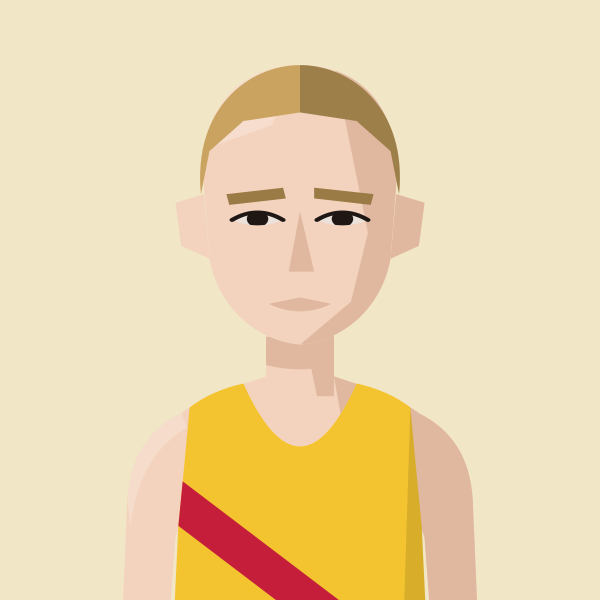
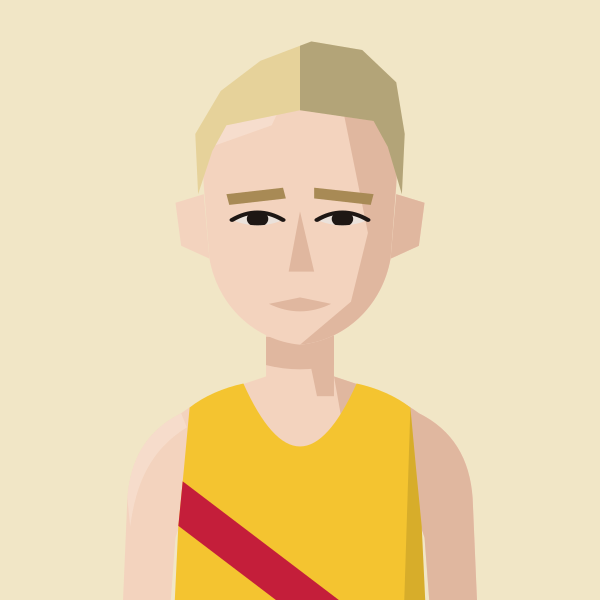
Portrait: George Mallett redrawn with pale blond quiff
Claude-Session: https://claude.ai/code/session_01DgcEr9hQHGiZw2mBbM5jbH

Changed region(s): [[0.3, 0.06, 0.69, 0.33]]

diff --git a/files/index.html b/files/index.html
@@ -672,7 +672,7 @@ return m;})();
 const portraitFile=(name,club)=>{const k=normalizeNameForCompare(name||'').replace(/\s*\(([^)]*)\)$/,(m,c)=>CLUBS[c.toUpperCase()]?'':m);const a=PORTRAITS[k];if(a&&a.club===club)return a.file;const b=PORTRAITS[k+'@'+club];return b?b.file:null;};
 // Athlete header figure: superstar portrait if we have one, else a grey runner in the club vest, else the plain vest icon
 // Changes whenever any portrait changes (set by tools/build_og.py), so browsers fetch fresh images instead of old cached ones
-const PORTRAIT_V='17aa1edd';const PORTRAIT_WOMEN='abbey-brooke,abbie-bulbulian,aimee-hargreaves,aisling-ahern,alex-brown,alex-gandee,alex-marginean,alex-miller,alexa-parker,alexandra-barbour,alice-braham,alice-bridger-morales,alice-crane,alice-martin,alice-reed,alice-smith,alison-purnell,amy-clements,anika-schwarze-chintapatla,anna-garnier,anna-garnier-hw,anna-sharp,anne-hegvold,annmarie-seymour,ava-mcandie,becky-briggs,bethan-goddard,bethanie-murray,bethany-brown,betsy-griffiths,billie-mcclosky,camilla-barden,caoimhe-nic-fhogartaigh,carolyne-baxter,catherine-bryson,catherine-eastham,catherine-kandie,cathy-ansell,charlotte-griffiths,chloe-beckett,chloe-tighe,chrissie-wellington,claire-grima,clara-pettit,clare-elms,clare-pauzers,dillan-quinn,dorchie-cockerell,eilidh-hide,elinor-skinner,elizabeth-apsley,elizabeth-stavreski,ella-fennelly,ella-king-powrie,ella-may-hards,ella-newton,ellie-freeden,eloise-bull,emilie-arnoux,emily-barrett,emily-bradley,emily-lowery,emily-robbins,emma-gordon,emma-howsham,emma-lord,emma-rowland,estle-viljoen,evie-warren,felicity-cole,felicity-harrison,felicity-hayward,fi-maddocks,fiona-de-mauny,florence-wiggins,gabby-collison,gabriel-reynolds,gemma-newport,georgia-curry,georgie-bruinvels,georgie-fenn,georgie-furze,georgie-grgec,gina-galbraith,grace-leyland,grace-richardson,hannah-edwards,hannah-english,heather-statham,heather-statham-cc,helena-corbin,helena-keenan,holly-nixon,holly-pan,imogen-mackie,imogen-wolsey,iona-cousland,isabel-bradley,isabel-brinsden,isabelle-pickett,isobel-hodder,jennifer-nandi,jess-reed,jess-saunders,jess-winfield,jessica-davies,jessica-lowe,jodie-favell,josephine-rhodes,julia-bleasdale,julia-wedmore,juliet-hodder,jurgita-levertaviciute,justine-lynch,karen-fenner,karen-xiang,kate-axford,katie-ellen-french,katie-good,katie-snowden,katy-hedgethorne,kitty-shepherd-cross,kristina-popadich,lara-bromilow,lara-mangan,laura-goodson,lauren-major,lea-adamson,lisa-bailey,lisa-thomas,lisa-thomas-hw,lizzie-goldie-scot,louise-cooper,lucy-jones,lucy-macalister,lucy-peters,lydia-gallyer-barnett,maddie-mastrolonardo,maddy-whitman,maeve-kenny,margaret-coogan,martina-conner,mary-james,mary-setyabule,matilde-lomba,megan-gildea,mhairi-hall,mimi-corden-lloyd,molly-oconnor,molly-smith,monika-gajek,naomi-lenane,natalie-beadle,natalie-seymour,natasha-lodge,niamh-thompson,nicola-douglas,nikki-sturzaker,olivia-papaioannou,olivia-stillman,orna-mcginley,pamela-mchutchon,patricia-walker,patrizia-gnoato,penny-oliver,rachel-brown,rebecca-barrow,rebekah-edgar,ruby-carter,ruby-whyte-wilding,ruby-woolfe,sam-whiting,samantha-munday,sarah-astin,sarah-dewhirst,sarah-grover,sarah-hanley,sarah-holt,sarah-murphy,sarah-palmer,sarah-palmer-ran,sarah-riceman,saron-haileselase,serena-carter,sophie-cowper,sophie-harris,sophie-hicks,sophie-tooley,stacey-ward,steph-hewitt,steph-mccall,steph-mccall-cc,steph-mccall-slh,steph-mitchell,suzanne-swaine,suzie-harvey,suzy-whatmough,teresa-murphy,tilly-heaton,tilly-heaton-bel,vicky-clarke,victoria-barthelmess,victoria-buck,vikki-filsell,zoe-macdonald';const PORTRAIT_MEN='aaron-wilson,abdulla-elsadig,adam-leane,adrian-major,adrien-royer,alan-black,alan-mead,alex-brecker,alex-bruce-littlewood,alex-gutteridge,alex-harris,alex-howard,alex-janiaud,alex-lee,alex-lennon,alex-mills,alex-milne,alex-robinson,alex-yee,amittai-ben-israel,andrew-cumine,andrew-green,andrew-penney,andrew-warburton,andrius-jaksevicius,andy-coley-maud,andy-coley-maud-cc,andy-fyfe,andy-north,andy-paton,andy-weir,angus-lamb,anisse-ismaili,arlo-ludewick,arne-dumez,arthur-peel,ashley-goncalves,barnaby-day,barry-collins,barry-sawyer,ben-clarke,ben-harding,ben-hurley,ben-ireland,ben-paviour,ben-pearce,ben-racle,ben-revill,ben-reynolds,ben-scott,ben-toomer,benedict-whitby,benjamin-hilson,bernie-ford,bill-kerr,bill-weller,bill-weller-wal,bob-harrison,bob-holt,bob-lunnon,bob-rayman,bob-smith,bradley-courtney-pinn,brandon-dewar,brian-gorman,brian-wilder,caleb-hathaway,callum-stewart,cameron-dockerill,cameron-reilly,carl-delaney,charles-herrington,charlie-dabbs,charlie-dickinson,charlie-eastaugh,charlie-manning,charlie-pickett,charlie-rogers,charlie-sandison,charlie-walker,charlie-wyllie,chris-busaileh,chris-busaileh-hhh,chris-greenwood,chris-keavey,chris-moss,chris-steer,chris-threadgold,chris-warren,christian-lee,christopher-parker,clive-gilby,clive-shippen,colin-high,colin-pearson,conall-mcnally,conall-whelan,craig-ruddy,dame-dibaba,dan-cliffe,dan-pettitt,daniel-shaw,daniel-wolff,dave-beard,dave-beaver,dave-glassborow,dave-holt,dave-taylor,david-anderson,david-bowers,david-grima,david-north,david-ogden,david-symons,david-walsh,david-williams,deron-fagan,dick-piotrowski,dimos-evangelidis,dominic-kiralyfi,don-anderson,don-faircloth,don-maclean,doug-maughan,dylan-evans,dylan-mitchard,ed-brewer,ed-catmur,ed-gibson,ed-mallett,eddie-herridge,eddie-jodrell,eddie-rolls,edward-chuck,eoin-brady,eoin-molloy,ethan-mccolgan,falilou-kebe,findlay-dyer,finn-johnson,fintan-pearce,frank-tickner,frank-ward,fred-paget,fred-slemeck,freddie-hessian,garret-lee,gary-ribbons,gary-ribbons-ee,gary-staines,gavin-eccles,geoff-biscoe,geoff-jerwood,geoff-north,george-cotton,george-gathercole,george-jackson,george-loxton,george-mallett,george-ogden,gerry-adams,gerry-north,gordon-pearce,graham-macky,harrison-hayman,harry-guttridge,hector-revill,henry-hart,henry-silverstein,hugo-hewitt,ian-acreman,ian-crowe-wright,ian-ellwood,ian-harkness,indy-barnes,isaac-lutaya,isaac-parker,jack-brotchie,jack-dickson,jack-dormer,jack-hampshire,jack-harrison,jack-hobden,jack-kavanagh,jack-millar,jack-ramm,jack-woods,jacob-brockmann,james-bartram,james-blackwood,james-estall,james-ewing,james-fox,james-hancock,james-harvey,james-hoad,james-kelly,james-mcmullan,james-murray,james-nutt,james-preston,james-roberts,james-stockings,james-wootton,jamie-crowe,jamie-parkinson,jared-martin,jean-paul-wright,jeff-cunningham,jeremy-dempsey,jermaine-mays,jerry-watson,jim-allchin,jim-rimmer,joe-english,joe-hartley,john-baker,john-bicourt,john-bromley,john-davies,john-dear,john-foss,john-foxall,john-gilbert,john-gladwin,john-hutchins,john-kendall,john-kimaiyo,john-lee,john-lethbridge,john-mather,john-moore,john-roberts,john-sanderson,john-stow,john-sullivan,john-thresher,jon-hobbs,jon-pepper,jon-pepper-slh,jon-phillips,jon-solly,jonathan-cocker,jonathan-collier,jonathan-cornish,jonathan-tipper,jonathon-blackledge,jonny-neville,jonny-scott,jordan-weaver,josh-mitchell,josh-snow,josh-trigwell,junior-galley,justin-chaston,justin-reid,kassa-tadesse,keith-newton,kevin-nash,kevin-quinn,kevin-sturman,kieran-barnes,knut-hegvold,knut-hegvold-bel,larry-ryan,lee-lintern,lewis-lloyd,liam-burthem,lionel-mann,lloyd-kempson,luke-caldwell,mack-downie,malachi-byansi,marcello-bizio,marco-mazzotta,mark-anderson,mark-miles,mark-sinclair,mark-tennyson,mark-waller,martin-dent,martin-lake,martin-lewington,martin-shore,mathew-speed,matt-chaston,matt-jones,matt-wood,matthew-edgar,matthew-houchell,matthew-varley,max-bloor,max-heyden,max-milarvie,max-nicholls,michael-baker,michael-mccarthy,mick-woods,mike-beevor,mike-boyle,mike-cummings,mike-farmery,mike-fuller,mike-hayes,mike-kortenray,mike-nouch,mohammed-ismail,monty-hudson,morgan-roberts,nathan-visick,neil-chisholm,neil-phillips,neil-speaight,neil-wilson,nic-lukies,nick-acfield,nick-altmann,nick-bester,nick-bester-hhh,nick-buckle,nick-bundle,nick-goolab,nick-lightfoot,nick-morris,nick-torry,noah-fernandez,norman-stairs,oli-carrington,oliver-carrington,oliver-fox,oliver-reynolds,oliver-young,ollie-foote,ollie-garrod,olly-buck,owen-hind,paddy-roddy,pancho-panchev,paskar-owor,pat-newell,patrick-mcdougall,paul-calver,paul-cheetham,paul-freary,paul-magner,paul-pollock,pete-carton,pete-gardner,peter-clarke,peter-giles,peter-giles-thh,peter-lighting,phil-carstairs,phil-sanders,phil-sesemann,phil-swinburn,phil-wicks,phil-woodford-smith,ralph-street,ranjit-bhatia,ray-foley,reece-edwards,rhys-boorman,rian-mccawley,richard-ashe,richard-henderson,richard-langley,richard-mcdowell,richard-ollington,richard-partridge,richard-sun,richard-ward,rob-armstrong,rob-kelly,rob-tuer,robert-elphick,robert-laing,robert-norville,robert-sesemann,robin-boon,robin-hudson,roger-alsop,roger-alsop-bel,ron-clark,ron-linstead,ronan-tanguy,rory-mcmahon,rory-orsborn,ross-christie,rowan-board,russell-dessaix-chin,ryan-hickey,ryan-mccallister,sam-bramwell,sam-charlton,sam-gebreselassie,sam-peters,sam-sommerville,sam-tyas,samuel-dames,sean-cordon,sebastian-anthony,simon-baines,simon-coombes,simon-coppard,simon-holmes,simon-rayner,simon-rayner-hw,simon-wade,simon-wade-hhh,simon-waterhouse,simon-williams,simon-wurr,sonny-nicoll,spencer-barden,stephen-mcleod,stephen-sharp,steve-gardner,steve-jones,steve-smythe,steve-smythe-hhh,stuart-major,stuart-major-thh,stuart-mccallum,stuart-paton,terry-booth,thomas-dugre,thomas-gandee,thomas-gardner,thomas-renshaw,tim-eglen,tim-watson,toby-cooke,toby-fletcher,tom-austin,tom-cheetham,tom-conlon,tom-davies,tom-gifford,tom-jervis,tom-lole,tom-south,tom-thornley,tommy-taylor,tony-binda,tony-fairclough,tony-harran,trevor-hart,valentin-rigori,vic-maughan,will-cockerell,will-lewis,will-marshall,will-scott,will-stockley,william-gardner,yacin-yusuf,zach-nolan';
+const PORTRAIT_V='ed598c14';const PORTRAIT_WOMEN='abbey-brooke,abbie-bulbulian,aimee-hargreaves,aisling-ahern,alex-brown,alex-gandee,alex-marginean,alex-miller,alexa-parker,alexandra-barbour,alice-braham,alice-bridger-morales,alice-crane,alice-martin,alice-reed,alice-smith,alison-purnell,amy-clements,anika-schwarze-chintapatla,anna-garnier,anna-garnier-hw,anna-sharp,anne-hegvold,annmarie-seymour,ava-mcandie,becky-briggs,bethan-goddard,bethanie-murray,bethany-brown,betsy-griffiths,billie-mcclosky,camilla-barden,caoimhe-nic-fhogartaigh,carolyne-baxter,catherine-bryson,catherine-eastham,catherine-kandie,cathy-ansell,charlotte-griffiths,chloe-beckett,chloe-tighe,chrissie-wellington,claire-grima,clara-pettit,clare-elms,clare-pauzers,dillan-quinn,dorchie-cockerell,eilidh-hide,elinor-skinner,elizabeth-apsley,elizabeth-stavreski,ella-fennelly,ella-king-powrie,ella-may-hards,ella-newton,ellie-freeden,eloise-bull,emilie-arnoux,emily-barrett,emily-bradley,emily-lowery,emily-robbins,emma-gordon,emma-howsham,emma-lord,emma-rowland,estle-viljoen,evie-warren,felicity-cole,felicity-harrison,felicity-hayward,fi-maddocks,fiona-de-mauny,florence-wiggins,gabby-collison,gabriel-reynolds,gemma-newport,georgia-curry,georgie-bruinvels,georgie-fenn,georgie-furze,georgie-grgec,gina-galbraith,grace-leyland,grace-richardson,hannah-edwards,hannah-english,heather-statham,heather-statham-cc,helena-corbin,helena-keenan,holly-nixon,holly-pan,imogen-mackie,imogen-wolsey,iona-cousland,isabel-bradley,isabel-brinsden,isabelle-pickett,isobel-hodder,jennifer-nandi,jess-reed,jess-saunders,jess-winfield,jessica-davies,jessica-lowe,jodie-favell,josephine-rhodes,julia-bleasdale,julia-wedmore,juliet-hodder,jurgita-levertaviciute,justine-lynch,karen-fenner,karen-xiang,kate-axford,katie-ellen-french,katie-good,katie-snowden,katy-hedgethorne,kitty-shepherd-cross,kristina-popadich,lara-bromilow,lara-mangan,laura-goodson,lauren-major,lea-adamson,lisa-bailey,lisa-thomas,lisa-thomas-hw,lizzie-goldie-scot,louise-cooper,lucy-jones,lucy-macalister,lucy-peters,lydia-gallyer-barnett,maddie-mastrolonardo,maddy-whitman,maeve-kenny,margaret-coogan,martina-conner,mary-james,mary-setyabule,matilde-lomba,megan-gildea,mhairi-hall,mimi-corden-lloyd,molly-oconnor,molly-smith,monika-gajek,naomi-lenane,natalie-beadle,natalie-seymour,natasha-lodge,niamh-thompson,nicola-douglas,nikki-sturzaker,olivia-papaioannou,olivia-stillman,orna-mcginley,pamela-mchutchon,patricia-walker,patrizia-gnoato,penny-oliver,rachel-brown,rebecca-barrow,rebekah-edgar,ruby-carter,ruby-whyte-wilding,ruby-woolfe,sam-whiting,samantha-munday,sarah-astin,sarah-dewhirst,sarah-grover,sarah-hanley,sarah-holt,sarah-murphy,sarah-palmer,sarah-palmer-ran,sarah-riceman,saron-haileselase,serena-carter,sophie-cowper,sophie-harris,sophie-hicks,sophie-tooley,stacey-ward,steph-hewitt,steph-mccall,steph-mccall-cc,steph-mccall-slh,steph-mitchell,suzanne-swaine,suzie-harvey,suzy-whatmough,teresa-murphy,tilly-heaton,tilly-heaton-bel,vicky-clarke,victoria-barthelmess,victoria-buck,vikki-filsell,zoe-macdonald';const PORTRAIT_MEN='aaron-wilson,abdulla-elsadig,adam-leane,adrian-major,adrien-royer,alan-black,alan-mead,alex-brecker,alex-bruce-littlewood,alex-gutteridge,alex-harris,alex-howard,alex-janiaud,alex-lee,alex-lennon,alex-mills,alex-milne,alex-robinson,alex-yee,amittai-ben-israel,andrew-cumine,andrew-green,andrew-penney,andrew-warburton,andrius-jaksevicius,andy-coley-maud,andy-coley-maud-cc,andy-fyfe,andy-north,andy-paton,andy-weir,angus-lamb,anisse-ismaili,arlo-ludewick,arne-dumez,arthur-peel,ashley-goncalves,barnaby-day,barry-collins,barry-sawyer,ben-clarke,ben-harding,ben-hurley,ben-ireland,ben-paviour,ben-pearce,ben-racle,ben-revill,ben-reynolds,ben-scott,ben-toomer,benedict-whitby,benjamin-hilson,bernie-ford,bill-kerr,bill-weller,bill-weller-wal,bob-harrison,bob-holt,bob-lunnon,bob-rayman,bob-smith,bradley-courtney-pinn,brandon-dewar,brian-gorman,brian-wilder,caleb-hathaway,callum-stewart,cameron-dockerill,cameron-reilly,carl-delaney,charles-herrington,charlie-dabbs,charlie-dickinson,charlie-eastaugh,charlie-manning,charlie-pickett,charlie-rogers,charlie-sandison,charlie-walker,charlie-wyllie,chris-busaileh,chris-busaileh-hhh,chris-greenwood,chris-keavey,chris-moss,chris-steer,chris-threadgold,chris-warren,christian-lee,christopher-parker,clive-gilby,clive-shippen,colin-high,colin-pearson,conall-mcnally,conall-whelan,craig-ruddy,dame-dibaba,dan-cliffe,dan-pettitt,daniel-shaw,daniel-wolff,dave-beard,dave-beaver,dave-glassborow,dave-holt,dave-taylor,david-anderson,david-bowers,david-grima,david-north,david-ogden,david-symons,david-walsh,david-williams,deron-fagan,dick-piotrowski,dimos-evangelidis,dominic-kiralyfi,don-anderson,don-faircloth,don-maclean,doug-maughan,dylan-evans,dylan-mitchard,ed-brewer,ed-catmur,ed-gibson,ed-mallett,eddie-herridge,eddie-jodrell,eddie-rolls,edward-chuck,eoin-brady,eoin-molloy,ethan-mccolgan,falilou-kebe,findlay-dyer,finn-johnson,fintan-pearce,frank-tickner,frank-ward,fred-paget,fred-slemeck,freddie-hessian,garret-lee,gary-ribbons,gary-ribbons-ee,gary-staines,gavin-eccles,geoff-biscoe,geoff-jerwood,geoff-north,george-cotton,george-gathercole,george-jackson,george-loxton,george-mallett,george-ogden,gerry-adams,gerry-north,gordon-pearce,graham-macky,harrison-hayman,harry-guttridge,hector-revill,henry-hart,henry-silverstein,hugo-hewitt,ian-acreman,ian-crowe-wright,ian-ellwood,ian-harkness,indy-barnes,isaac-lutaya,isaac-parker,jack-brotchie,jack-dickson,jack-dormer,jack-hampshire,jack-harrison,jack-hobden,jack-kavanagh,jack-millar,jack-ramm,jack-woods,jacob-brockmann,james-bartram,james-blackwood,james-estall,james-ewing,james-fox,james-hancock,james-harvey,james-hoad,james-kelly,james-mcmullan,james-murray,james-nutt,james-preston,james-roberts,james-stockings,james-wootton,jamie-crowe,jamie-parkinson,jared-martin,jean-paul-wright,jeff-cunningham,jeremy-dempsey,jermaine-mays,jerry-watson,jim-allchin,jim-rimmer,joe-english,joe-hartley,john-baker,john-bicourt,john-bromley,john-davies,john-dear,john-foss,john-foxall,john-gilbert,john-gladwin,john-hutchins,john-kendall,john-kimaiyo,john-lee,john-lethbridge,john-mather,john-moore,john-roberts,john-sanderson,john-stow,john-sullivan,john-thresher,jon-hobbs,jon-pepper,jon-pepper-slh,jon-phillips,jon-solly,jonathan-cocker,jonathan-collier,jonathan-cornish,jonathan-tipper,jonathon-blackledge,jonny-neville,jonny-scott,jordan-weaver,josh-mitchell,josh-snow,josh-trigwell,junior-galley,justin-chaston,justin-reid,kassa-tadesse,keith-newton,kevin-nash,kevin-quinn,kevin-sturman,kieran-barnes,knut-hegvold,knut-hegvold-bel,larry-ryan,lee-lintern,lewis-lloyd,liam-burthem,lionel-mann,lloyd-kempson,luke-caldwell,mack-downie,malachi-byansi,marcello-bizio,marco-mazzotta,mark-anderson,mark-miles,mark-sinclair,mark-tennyson,mark-waller,martin-dent,martin-lake,martin-lewington,martin-shore,mathew-speed,matt-chaston,matt-jones,matt-wood,matthew-edgar,matthew-houchell,matthew-varley,max-bloor,max-heyden,max-milarvie,max-nicholls,michael-baker,michael-mccarthy,mick-woods,mike-beevor,mike-boyle,mike-cummings,mike-farmery,mike-fuller,mike-hayes,mike-kortenray,mike-nouch,mohammed-ismail,monty-hudson,morgan-roberts,nathan-visick,neil-chisholm,neil-phillips,neil-speaight,neil-wilson,nic-lukies,nick-acfield,nick-altmann,nick-bester,nick-bester-hhh,nick-buckle,nick-bundle,nick-goolab,nick-lightfoot,nick-morris,nick-torry,noah-fernandez,norman-stairs,oli-carrington,oliver-carrington,oliver-fox,oliver-reynolds,oliver-young,ollie-foote,ollie-garrod,olly-buck,owen-hind,paddy-roddy,pancho-panchev,paskar-owor,pat-newell,patrick-mcdougall,paul-calver,paul-cheetham,paul-freary,paul-magner,paul-pollock,pete-carton,pete-gardner,peter-clarke,peter-giles,peter-giles-thh,peter-lighting,phil-carstairs,phil-sanders,phil-sesemann,phil-swinburn,phil-wicks,phil-woodford-smith,ralph-street,ranjit-bhatia,ray-foley,reece-edwards,rhys-boorman,rian-mccawley,richard-ashe,richard-henderson,richard-langley,richard-mcdowell,richard-ollington,richard-partridge,richard-sun,richard-ward,rob-armstrong,rob-kelly,rob-tuer,robert-elphick,robert-laing,robert-norville,robert-sesemann,robin-boon,robin-hudson,roger-alsop,roger-alsop-bel,ron-clark,ron-linstead,ronan-tanguy,rory-mcmahon,rory-orsborn,ross-christie,rowan-board,russell-dessaix-chin,ryan-hickey,ryan-mccallister,sam-bramwell,sam-charlton,sam-gebreselassie,sam-peters,sam-sommerville,sam-tyas,samuel-dames,sean-cordon,sebastian-anthony,simon-baines,simon-coombes,simon-coppard,simon-holmes,simon-rayner,simon-rayner-hw,simon-wade,simon-wade-hhh,simon-waterhouse,simon-williams,simon-wurr,sonny-nicoll,spencer-barden,stephen-mcleod,stephen-sharp,steve-gardner,steve-jones,steve-smythe,steve-smythe-hhh,stuart-major,stuart-major-thh,stuart-mccallum,stuart-paton,terry-booth,thomas-dugre,thomas-gandee,thomas-gardner,thomas-renshaw,tim-eglen,tim-watson,toby-cooke,toby-fletcher,tom-austin,tom-cheetham,tom-conlon,tom-davies,tom-gifford,tom-jervis,tom-lole,tom-south,tom-thornley,tommy-taylor,tony-binda,tony-fairclough,tony-harran,trevor-hart,valentin-rigori,vic-maughan,will-cockerell,will-lewis,will-marshall,will-scott,will-stockley,william-gardner,yacin-yusuf,zach-nolan';
 const AthletePortrait=({name,club,w,fill,onClick})=>{const[failed,setFailed]=useState(false);const file=portraitFile(name,club);const src=file?`/portraits/athletes/${file}.svg?v=${PORTRAIT_V}`:PORTRAIT_CLUBS.has(club)?`/portraits/clubs/${club.replace(/\//g,'').replace(/&/g,'and')}.svg?v=${PORTRAIT_V}`:null;if(!src||failed)return<div onClick={onClick} className={onClick?'cursor-pointer':''}><ClubShield club={club} size={w}/></div>;const h=Math.round(w*148/126),ih=Math.round(w*1.4);if(fill)return<div onClick={onClick} className="cursor-pointer" style={{alignSelf:'stretch',minHeight:h,aspectRatio:'126 / 148',flexShrink:0,position:'relative',borderRadius:4,overflow:'hidden'}}><img src={src} alt={file?`Portrait of ${name.replace(/\s*\([^)]*\)$/,'')}`:`Runner in ${CLUBS[club]?.name||club} vest`} style={{position:'absolute',top:0,left:0,display:'block',width:'100%',height:'auto'}} onError={()=>setFailed(true)}/></div>;return<div style={{width:w,height:h,borderRadius:4,overflow:'hidden',flexShrink:0}}><img src={src} alt={file?`Portrait of ${name.replace(/\s*\([^)]*\)$/,'')}`:`Runner in ${CLUBS[club]?.name||club} vest`} width={w} height={ih} style={{display:'block',width:w,height:ih}} onError={()=>setFailed(true)}/></div>;};
 const getClubVestSvg=(club)=>{
   const p="M3 0 L6 0 Q7 4 10 5 Q13 4 14 0 L17 0 L17 20 L3 20 Z";

diff --git a/tools/gen_portraits.py b/tools/gen_portraits.py
@@ -1282,6 +1282,9 @@ save("steph-mccall-slh", figure("SLH", skin=1, hair="ponytail", hair_colour="lig
 # Ed Mallett redraw (Oct 2026): Steve says very blonde hair
 save("mallett", figure("H/W", skin=1, hair="crop", hair_colour="#E6D29A", brow_colour="#A88A55", facial="stubble", facial_colour="#C9AE78"))
 
+# George Mallett redraw (Oct 2026): swept-up quiff, very pale blond, as in the club photos
+save("george-mallett", figure("H/W", skin=1, hair="quiff", hair_colour="#E6D29A", brow_colour="#A88A55"))
+
 # ---- Site export -------------------------------------------------------------
 # Every live portrait, written to site/<slug>.svg under the exact file name the
 # site uses (files/portraits/athletes/). Most portraits are saved under their
